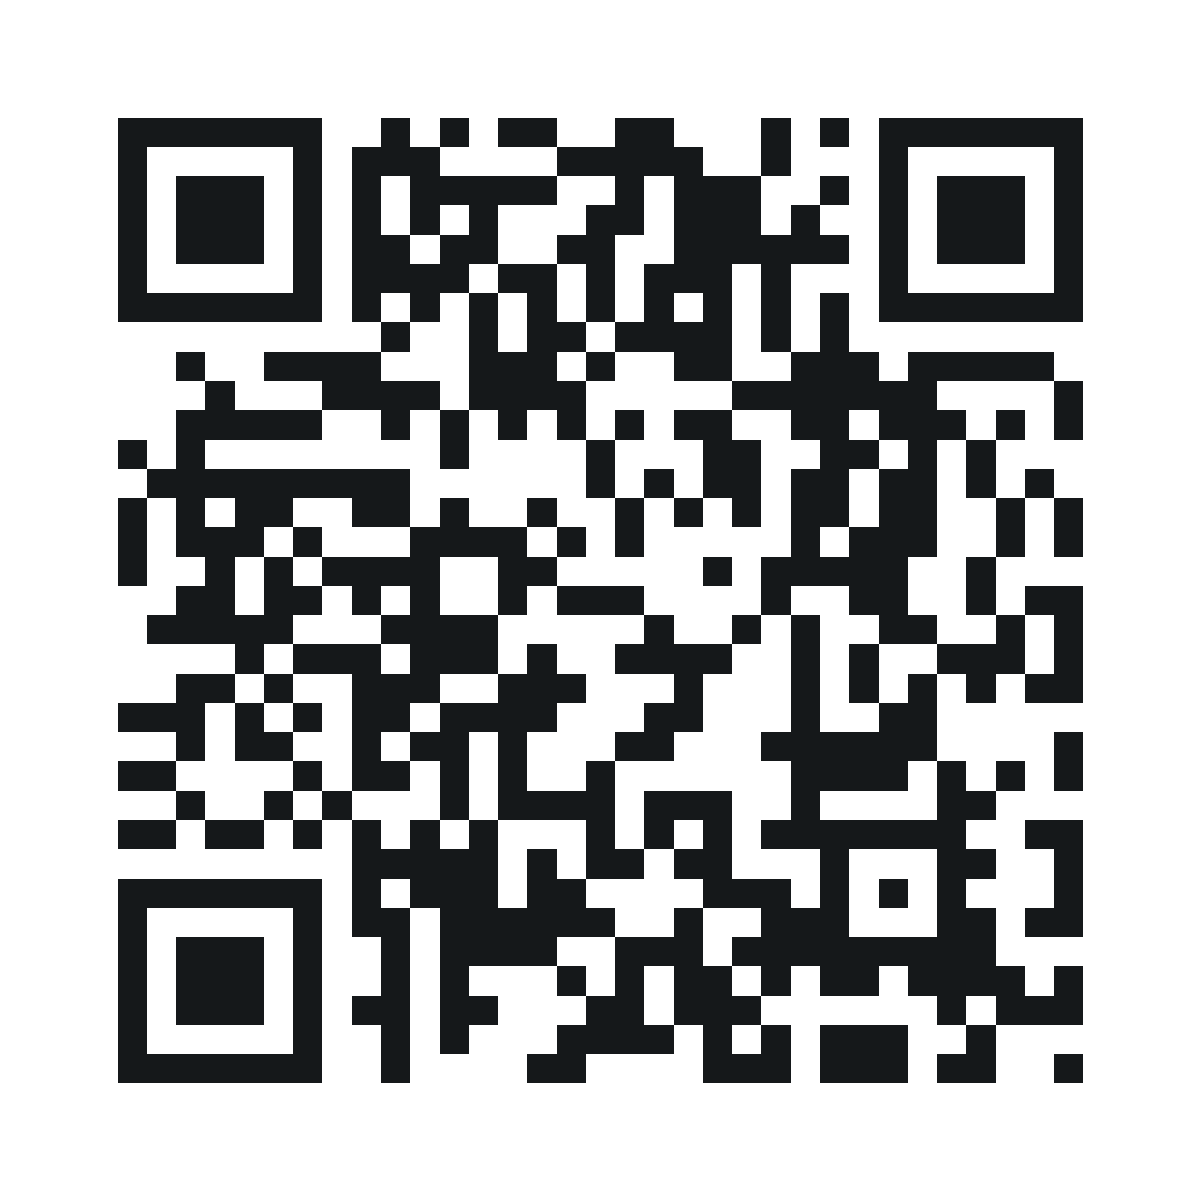
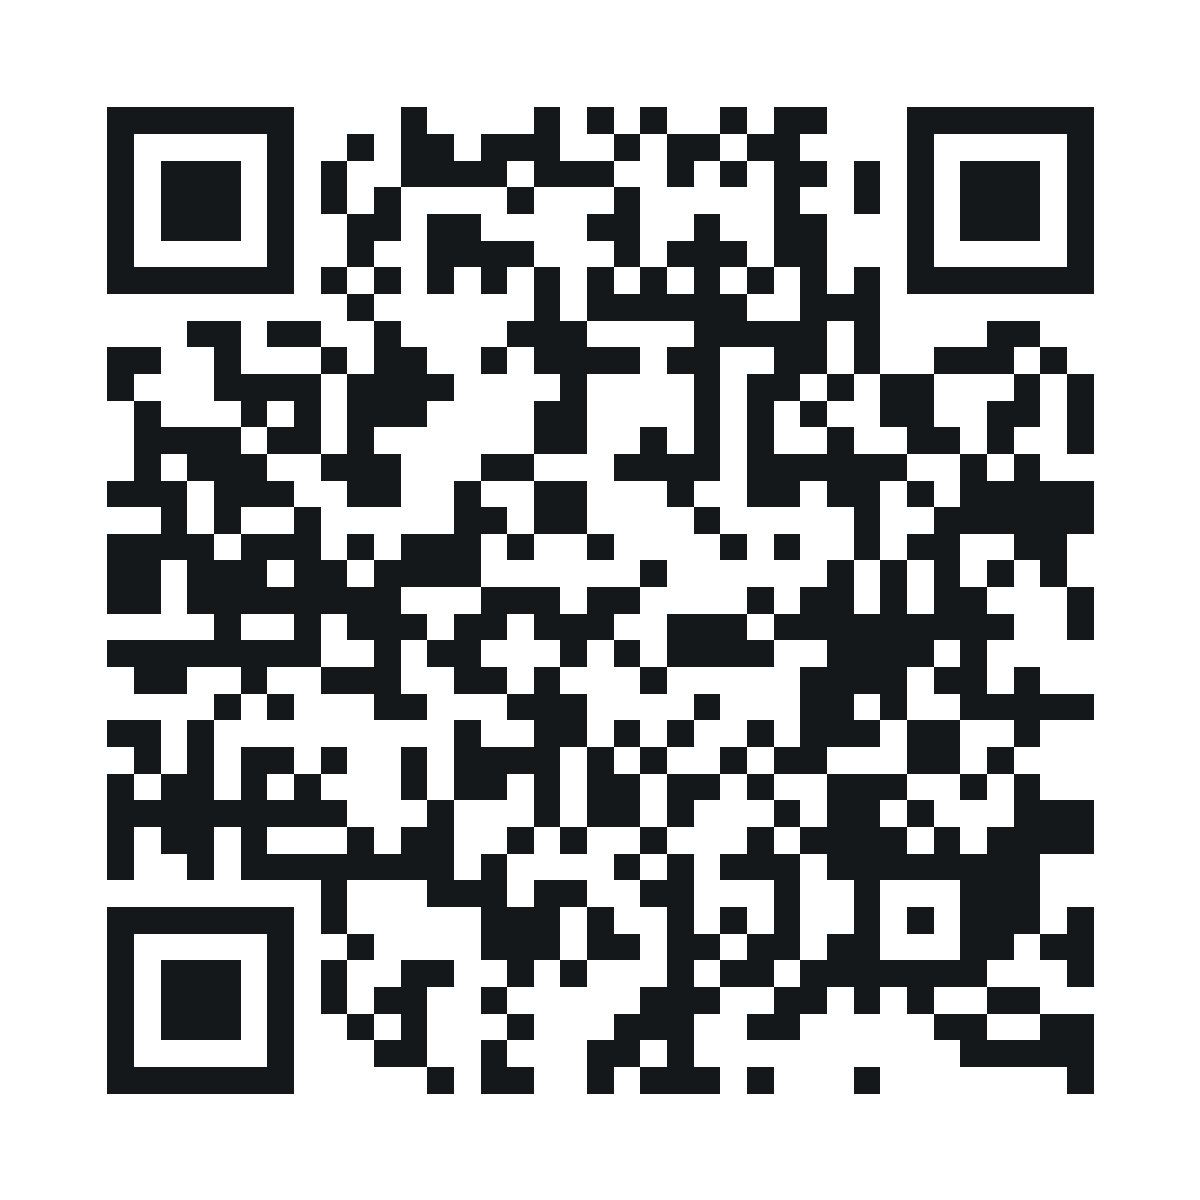
qr: point the codes at the site that is actually live
They encoded https://hayelom.pages.dev/imbirt — a domain that was never bought,
so every code on disk pointed at nothing. The site is live at
https://hayouprogrammer.github.io/, so that is what they encode now.

Verified by round-trip decode of both PNGs, and by following the printed path
in a browser: /imbirt serves the page that meta-refreshes to /work/imbirt.

This is a test print, not a final one. hayouprogrammer.github.io is still a
hosting subdomain, so if the site ever moves off GitHub Pages every leaflet
handed out is dead. Print the final run only once a domain you own is pointed
here — the config comment and public/qr/README.md both say so.

diff --git a/public/qr/README.md b/public/qr/README.md
@@ -1,11 +1,11 @@
-# QR codes for print — 2026-10-09
+# QR codes for print — 2026-10-11
 
 ## Encoded targets
 
 | File | Payload |
 |---|---|
-| `imbirt-brochure.svg` | https://hayelom.pages.dev/imbirt |
-| `imbirt-brochure.png` | https://hayelom.pages.dev/imbirt (3 cm @ 300 dpi proof) |
+| `imbirt-brochure.svg` | https://hayouprogrammer.github.io/imbirt |
+| `imbirt-brochure.png` | https://hayouprogrammer.github.io/imbirt (3 cm @ 300 dpi proof) |
 | `vcard.svg` | vCard — Hayelom Gebrewahid |
 | `vcard.png` | vCard (proof raster) |
 
@@ -24,7 +24,7 @@
 
 ## The rule that makes this safe
 
-The QR encodes **`https://hayelom.pages.dev/imbirt`**. That is a redirect, not the content. When the
+The QR encodes **`https://hayouprogrammer.github.io/imbirt`**. That is a redirect, not the content. When the
 domain changes:
 
 1. Buy and point the new domain at the same host.
